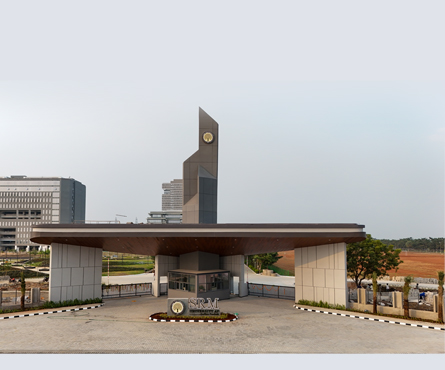
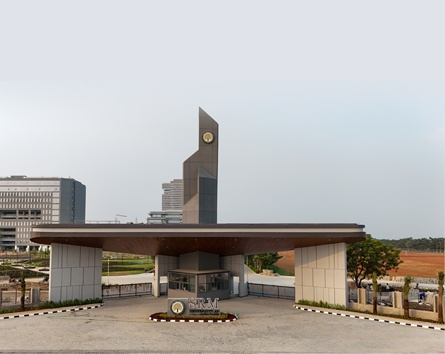
New updates

Changed region(s): [[0.0, 0.4661, 1.0, 1.0], [0.409, 0.2797, 0.4966, 0.4661], [0.4382, 0.4661, 0.4966, 0.5282]]

diff --git a/index.html b/index.html
@@ -185,54 +185,60 @@
 
         <div class="timeline-item" data-aos>
           <div class="timeline-dot"></div>
-          <div class="timeline-card">
+          <div class="timeline-card edu-card">
             <img src="srmap image.jpg" alt="SRM University, Andhra Pradesh campus" class="edu-photo" loading="lazy" />
-            <div class="tc-header">
-              <div>
-                <h3>B.Tech – AI & Machine Learning</h3>
-                <p class="tc-org">SRM University, Andhra Pradesh</p>
+            <div class="edu-body">
+              <div class="tc-header">
+                <div>
+                  <h3>B.Tech – AI & Machine Learning</h3>
+                  <p class="tc-org">SRM University, Andhra Pradesh</p>
+                </div>
+                <span class="tc-date">Jun 2024 – Jun 2028</span>
               </div>
-              <span class="tc-date">Jun 2024 – Jun 2028</span>
-            </div>
-            <p class="tc-desc">Pursuing a full-time degree in Artificial Intelligence & Machine Learning. CGPA: 9.4/10.0. Relevant coursework includes Data Structures & Algorithms, Machine Learning, and Web Development.</p>
-            <div class="tc-tags">
-              <span>AI / ML</span><span>DSA</span><span>Web Dev</span><span>CGPA 9.4</span>
+              <p class="tc-desc">Pursuing a full-time degree in Artificial Intelligence & Machine Learning. CGPA: 9.4/10.0. Relevant coursework includes Data Structures & Algorithms, Machine Learning, and Web Development.</p>
+              <div class="tc-tags">
+                <span>AI / ML</span><span>DSA</span><span>Web Dev</span><span>CGPA 9.4</span>
+              </div>
             </div>
           </div>
         </div>
 
         <div class="timeline-item" data-aos>
           <div class="timeline-dot"></div>
-          <div class="timeline-card">
+          <div class="timeline-card edu-card">
             <img src="VG12.jpg" alt="VidyaGyan Leadership Academy — Class XII" class="edu-photo" loading="lazy" />
-            <div class="tc-header">
-              <div>
-                <h3>Class XII – CBSE</h3>
-                <p class="tc-org">VidyaGyan Leadership Academy</p>
+            <div class="edu-body">
+              <div class="tc-header">
+                <div>
+                  <h3>Class XII – CBSE</h3>
+                  <p class="tc-org">VidyaGyan Leadership Academy</p>
+                </div>
+                <span class="tc-date">Completed 2024</span>
               </div>
-              <span class="tc-date">Completed 2024</span>
-            </div>
-            <p class="tc-desc">Scored 87.50% in Senior School Certificate Examination. Core subjects: Physics, Chemistry, Mathematics, Informatics Practice, and English.</p>
-            <div class="tc-tags">
-              <span>87.50%</span><span>PCM + IP</span><span>CBSE Board</span>
+              <p class="tc-desc">Scored 87.50% in Senior School Certificate Examination. Core subjects: Physics, Chemistry, Mathematics, Informatics Practice, and English.</p>
+              <div class="tc-tags">
+                <span>87.50%</span><span>PCM + IP</span><span>CBSE Board</span>
+              </div>
             </div>
           </div>
         </div>
 
         <div class="timeline-item" data-aos>
           <div class="timeline-dot"></div>
-          <div class="timeline-card">
+          <div class="timeline-card edu-card">
             <img src="vg10.jpg" alt="VidyaGyan Leadership Academy — Class X" class="edu-photo" loading="lazy" />
-            <div class="tc-header">
-              <div>
-                <h3>Class X – CBSE</h3>
-                <p class="tc-org">VidyaGyan Leadership Academy</p>
+            <div class="edu-body">
+              <div class="tc-header">
+                <div>
+                  <h3>Class X – CBSE</h3>
+                  <p class="tc-org">VidyaGyan Leadership Academy</p>
+                </div>
+                <span class="tc-date">Completed 2022</span>
               </div>
-              <span class="tc-date">Completed 2022</span>
-            </div>
-            <p class="tc-desc">Scored 95.4% at one of India's premier merit-based, fully residential leadership schools. Admission through competitive scholarship selection.</p>
-            <div class="tc-tags">
-              <span>95.4%</span><span>Merit Scholarship</span><span>Residential</span>
+              <p class="tc-desc">Scored 95.4% at one of India's premier merit-based, fully residential leadership schools. Admission through competitive scholarship selection.</p>
+              <div class="tc-tags">
+                <span>95.4%</span><span>Merit Scholarship</span><span>Residential</span>
+              </div>
             </div>
           </div>
         </div>

diff --git a/style.css b/style.css
@@ -201,7 +201,9 @@ body::after{content:'';position:fixed;inset:0;pointer-events:none;z-index:9998;o
 .tc-tags{display:flex;gap:.5rem;flex-wrap:wrap}
 .tc-tags span{font-size:.74rem;background:rgba(52,61,26,.06);color:var(--accent);border:1px solid rgba(52,61,26,.12);padding:.22rem .7rem;border-radius:999px;font-weight:500;transition:all .2s cubic-bezier(.4,0,.2,1);cursor:default;display:inline-flex;align-items:center;justify-content:center;max-width:100%}
 .tc-tags span:active{background:rgba(52,61,26,.12);transform:scale(.95);transition-duration:.08s}
-.edu-photo{width:100%;aspect-ratio:16/9;object-fit:cover;border-radius:var(--radius-sm);margin-bottom:1.1rem;border:1px solid var(--border);background:var(--surface2)}
+.edu-card{display:flex;gap:1.5rem;align-items:flex-start}
+.edu-photo{display:block;width:220px;flex-shrink:0;height:auto;aspect-ratio:auto;object-fit:contain;margin-bottom:0;border-radius:var(--radius-sm);border:1px solid var(--border);background:var(--surface2)}
+.edu-body{flex:1;min-width:0}
 
 /* ─── PROJECTS ─── */
 .projects-grid{display:flex;flex-wrap:wrap;justify-content:center;gap:1.5rem}
@@ -413,6 +415,8 @@ body::after{content:'';position:fixed;inset:0;pointer-events:none;z-index:9998;o
   .timeline-item{gap:1rem}
   .timeline-dot{left:-1.98rem}
   .timeline-card{padding:1.25rem}
+  .edu-card{flex-direction:column;gap:1rem}
+  .edu-photo{width:100%;max-width:100%}
   .tc-header{flex-direction:column;align-items:flex-start}
   .project-card,.cert-card,.skill-group,.achieve-card,.cp-card{max-width:100%}
   .interest-card{max-width:calc(50% - .6rem)}

diff --git a/AGENTS.md b/AGENTS.md
@@ -14,8 +14,9 @@
 
 ## Gotchas
 
-- Asset filenames are case-sensitive and some contain spaces (`srmap image.jpg`, `vg10.jpg` vs `VG12.jpg`). Preserve exact names; modal uses `encodeURI()` — keep it.
-- Certificates: cards wire via `data-file` (preview `<img>`) + optional `data-pdf` (download link). Keep PNG previews alongside source PDFs (`mongodb-certification.*`, `class-12-marksheet.*`).
-- Known placeholder: 8086 Emulator link is `[PASTE YOUR ACTUAL REPO URL HERE]` (`index.html:348`) — replace with real URL, don't ship as-is.
-- Fragile: LeetCode bars re-set `bar.style.width` to itself to retrigger the transition (`script.js:158-164`); `[data-aos]` `--aos-delay` is cleared after entry. Don't rely on either persisting.
+- Asset filenames are case-sensitive and some contain spaces (`srmap image.jpg`, `vg10.jpg` vs `VG12.jpg`, `Dabur_internship.jpg`, `YSP.jpg`). Preserve exact names; modal uses `encodeURI()` — keep it.
+- Certificates: cards wire via `data-file` (preview `<img>`) + optional `data-pdf` (download link). Only `mongodb-certification` and `class-12-marksheet` have both PNG + PDF; `Dabur_internship.jpg` / `YSP.jpg` are JPG-only with no `data-pdf`.
+- Known placeholder: 8086 Emulator link is `[PASTE YOUR ACTUAL REPO URL HERE]` (`index.html:350`) — replace with real URL, don't ship as-is.
+- Mobile nav breakpoint is 1000px, not 768px (`style.css:373-381` explains why; ignore stale `script.js:74` "below 768px" comment). `.nav-links` / `.nav-scrim` must stay `position:absolute` — `#navbar` has `backdrop-filter`, which breaks `fixed` descendants (zero-height panel).
+- Fragile: LeetCode bars re-set `bar.style.width` to itself to retrigger the transition (`script.js:265-271`); `[data-aos]` `--aos-delay` is cleared after entry (`script.js:111-114`). Don't rely on either persisting.
 - Preserve `prefers-reduced-motion` handling (disables reveals/ripple), modal focus-to-close-button, and Escape-closes-modal-and-nav.
